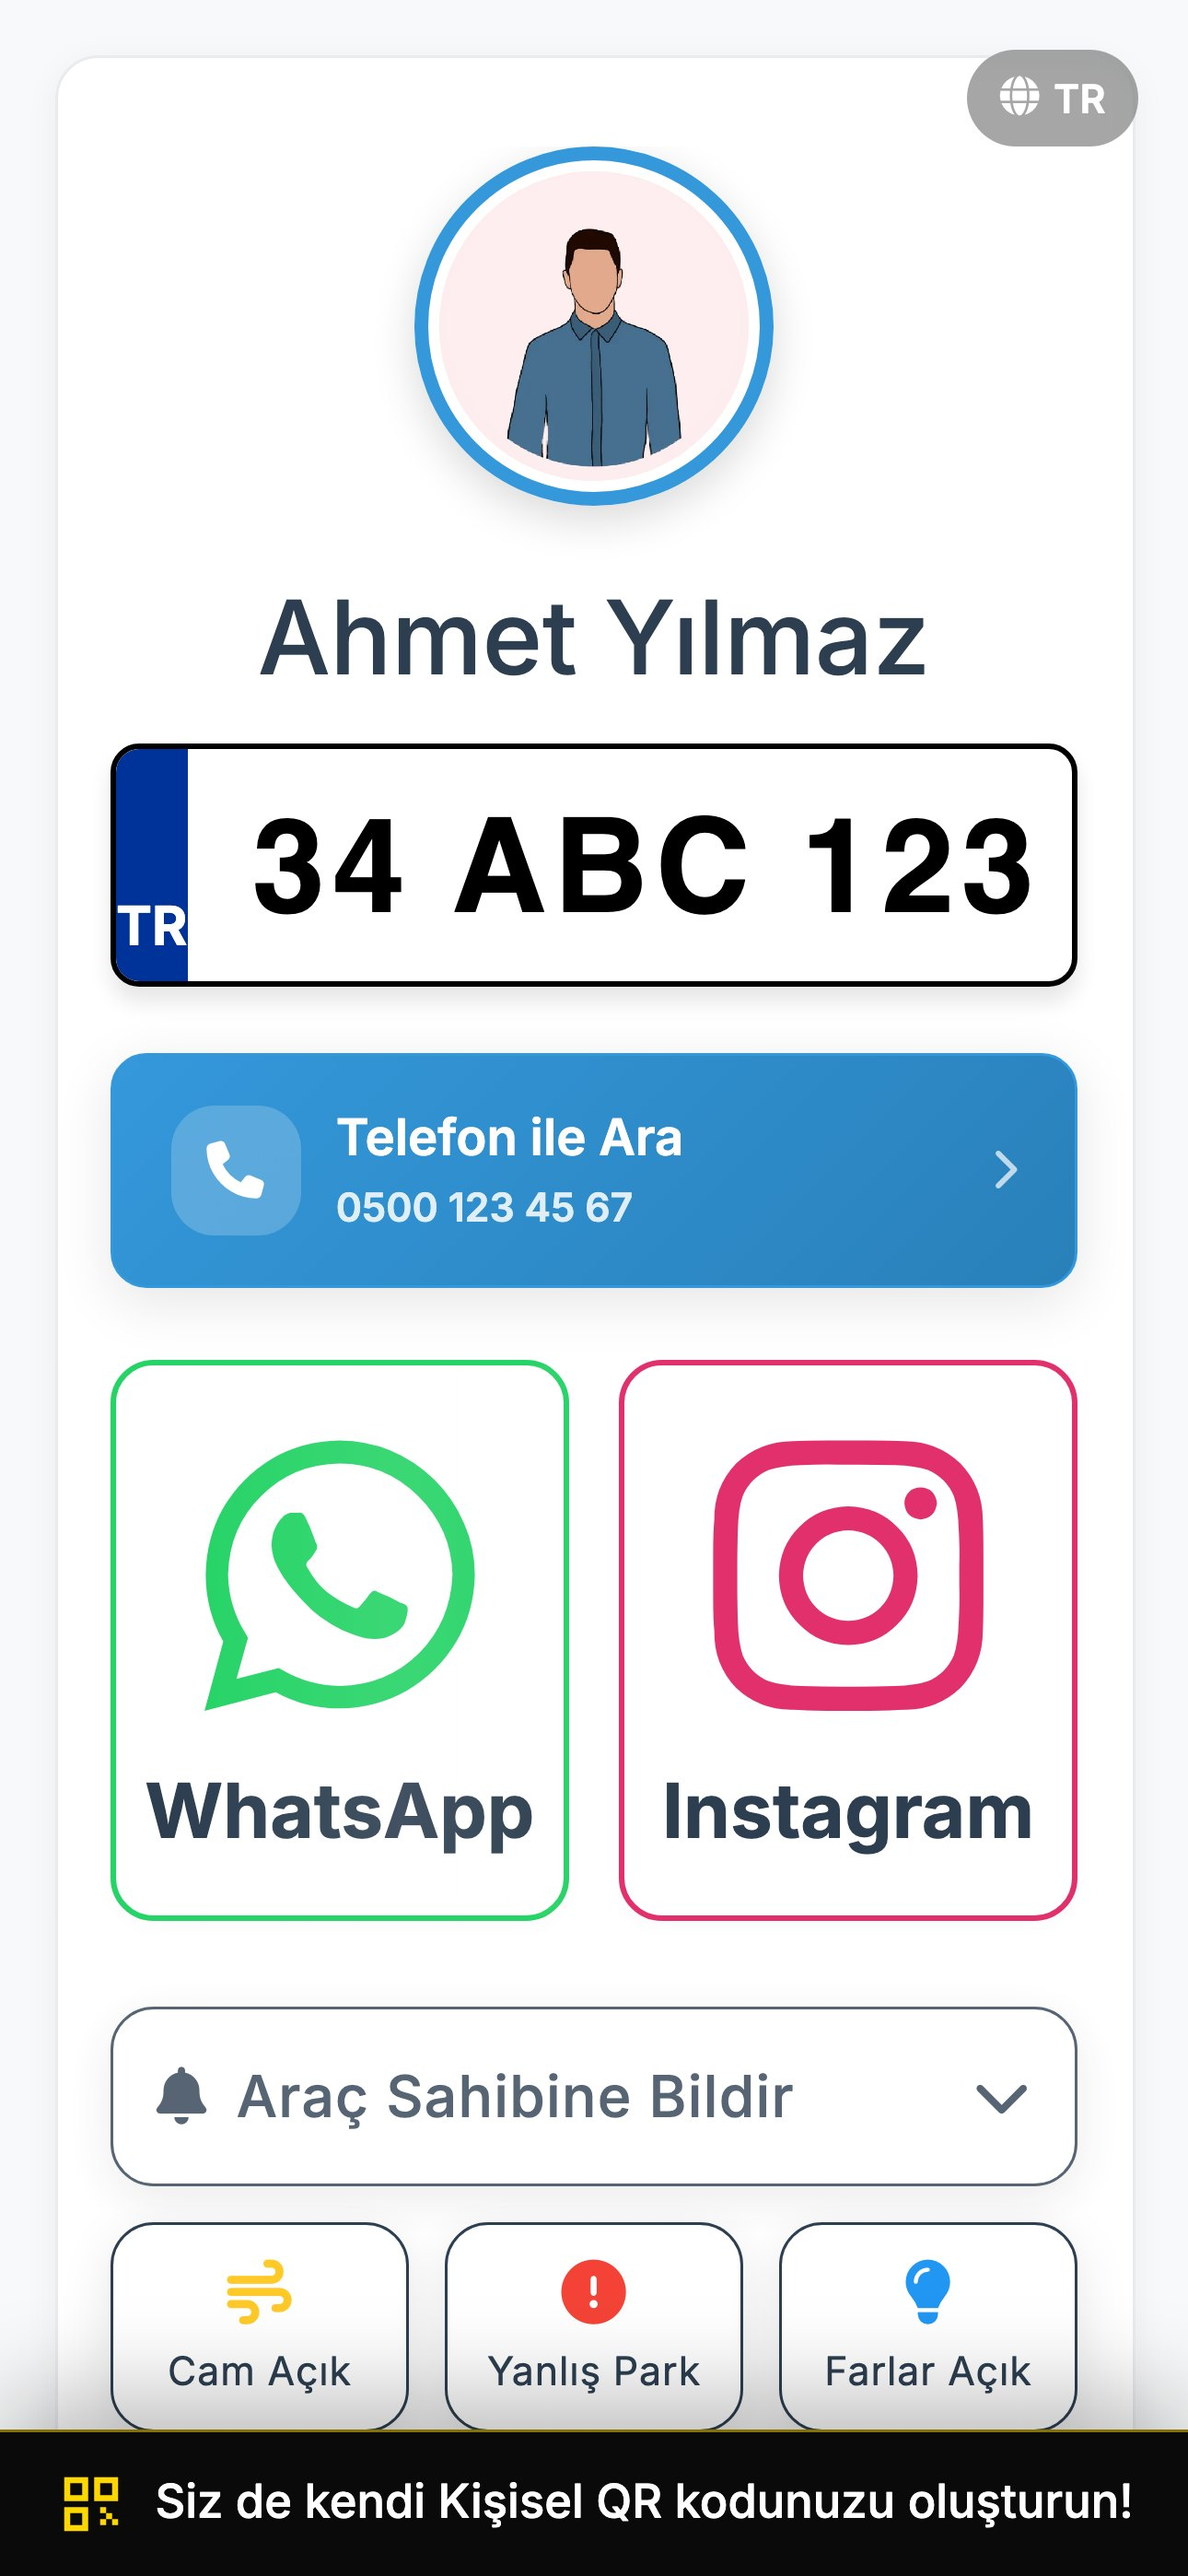
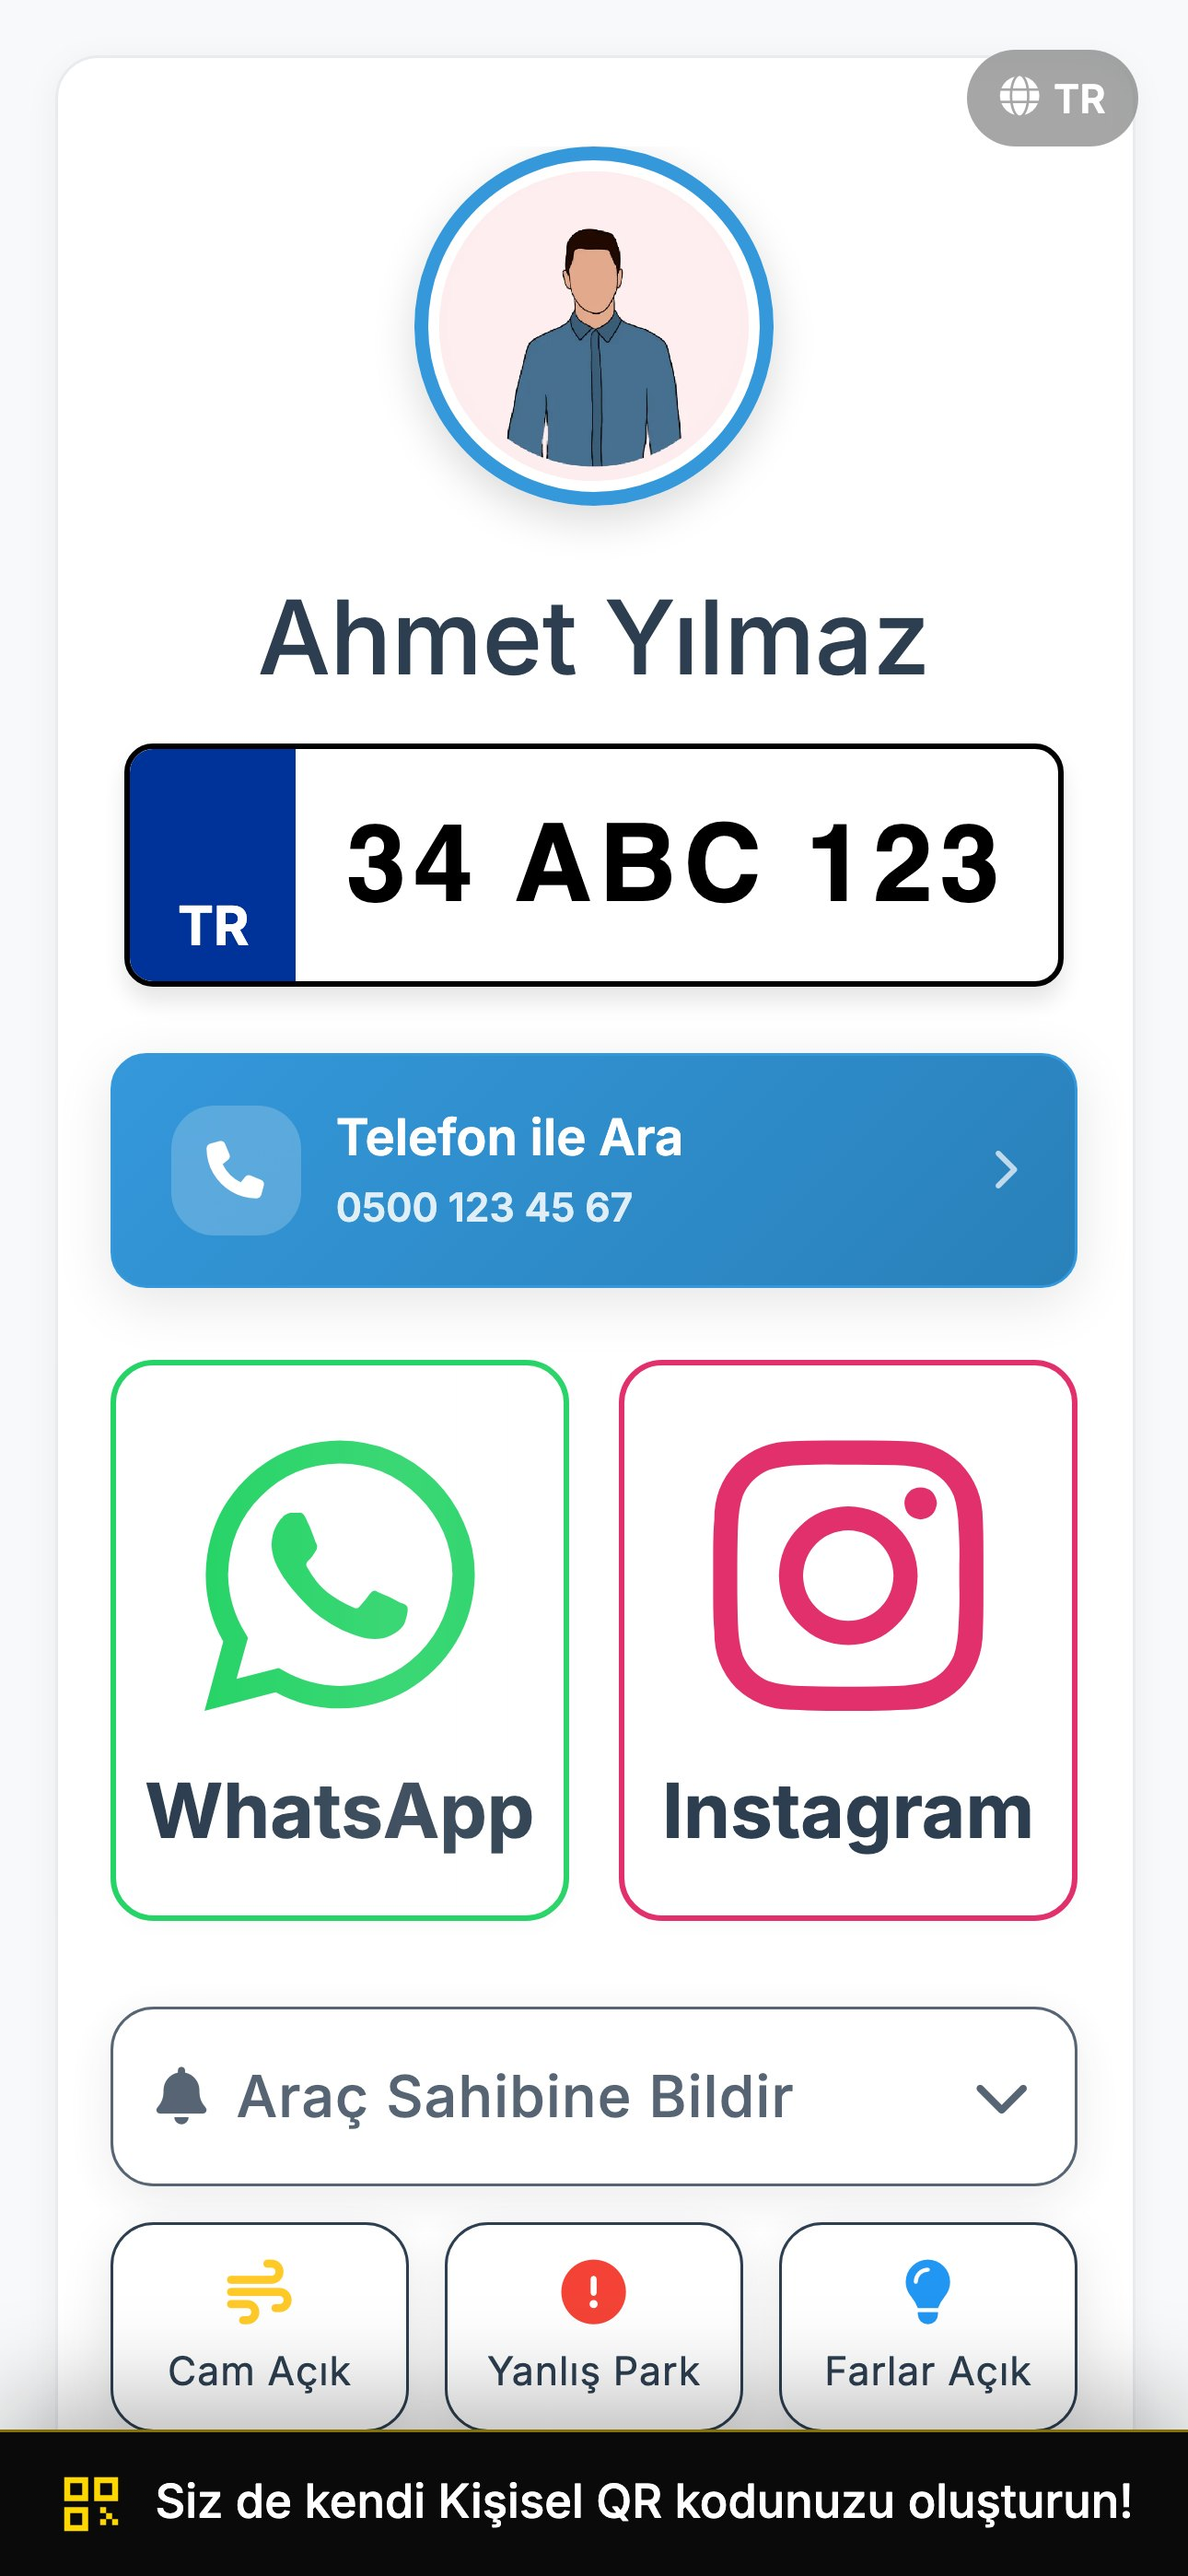
Tasarım 2: telefon ekranındaki plakada TR şeridi sıkışmıyor
Canlı sayfanın büyük plakası zoom ile sığmayınca TR yazısı taşıyordu;
ekran betiğinde şerit sabit, plaka yazısı 30 px. Ekran yeniden çekildi.

Changed region(s): [[0.093, 0.28, 0.6512, 0.4045], [0.6822, 0.28, 0.9302, 0.4045]]

diff --git a/araclar/demo_ekran_goruntusu.py b/araclar/demo_ekran_goruntusu.py
@@ -68,6 +68,10 @@ DOLDUR = """((V)=>{const q=s=>document.querySelector(s);
     '<div class="plate-text" style="padding:0 15px;display:flex;align-items:center;justify-content:center;font-family:\\'Segoe UI\\',Roboto,Helvetica,Arial,sans-serif;font-size:26px;font-weight:800;color:#000;letter-spacing:1px;">'+
     V.plaka.toUpperCase()+'</div></div></div>');
   document.querySelectorAll('.contact-info').forEach(e=>e.remove());
+  // canlı sayfanın plakası (25 Kasım: 68 px, yazı 8,5vw) zoom ile ekrana sığmayınca mavi TR şeridi sıkışıp "TR" taşıyordu:
+  // şerit daralmasın, yazı sığacak boyda kalsın
+  document.querySelectorAll('.license-plate .tr-section').forEach(e=>{ e.style.flexShrink='0'; });
+  document.querySelectorAll('.license-plate .plate-text').forEach(e=>{ e.style.fontSize='30px'; e.style.padding='0 14px'; });
   // telefon: profile.php'nin kendi telefon butonu (phone_hidden kapalıyken plakanın altında böyle basılır)
   const pw=q('.license-plate-wrapper');
   if(V.telefon && pw) pw.insertAdjacentHTML('afterend',
